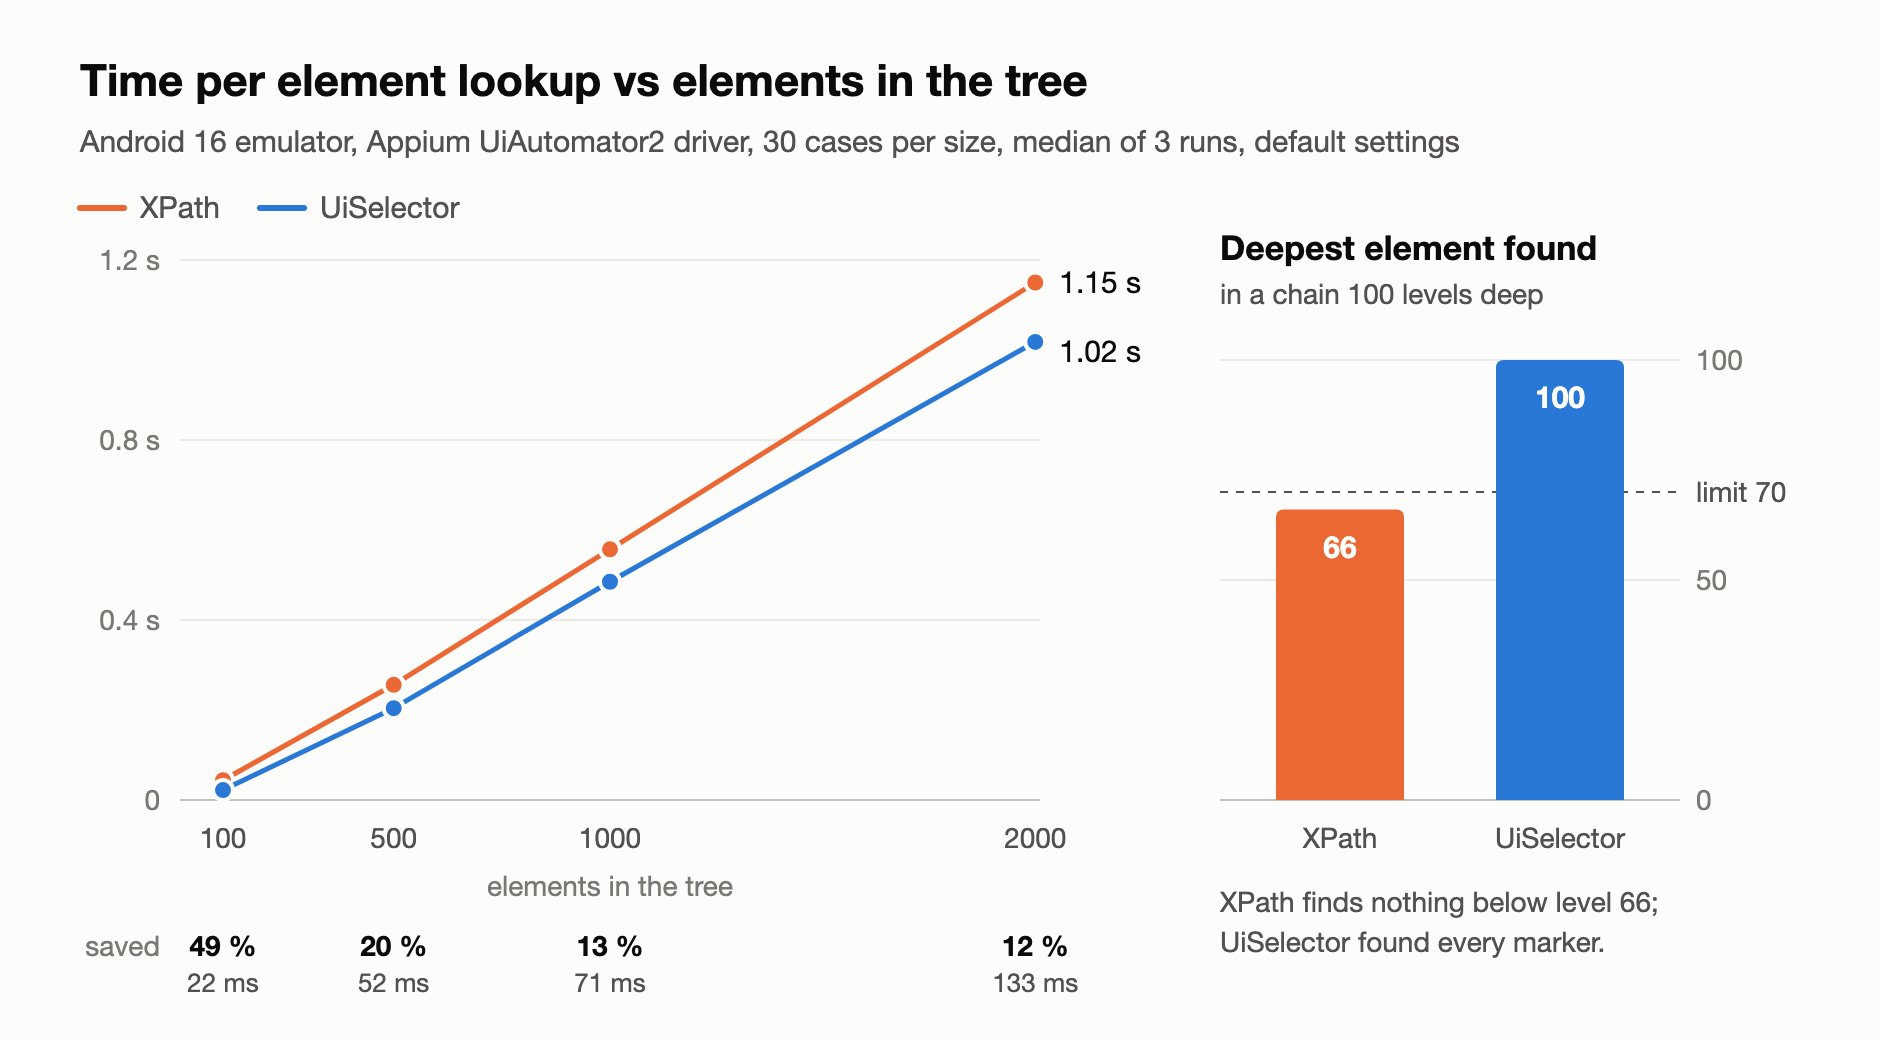
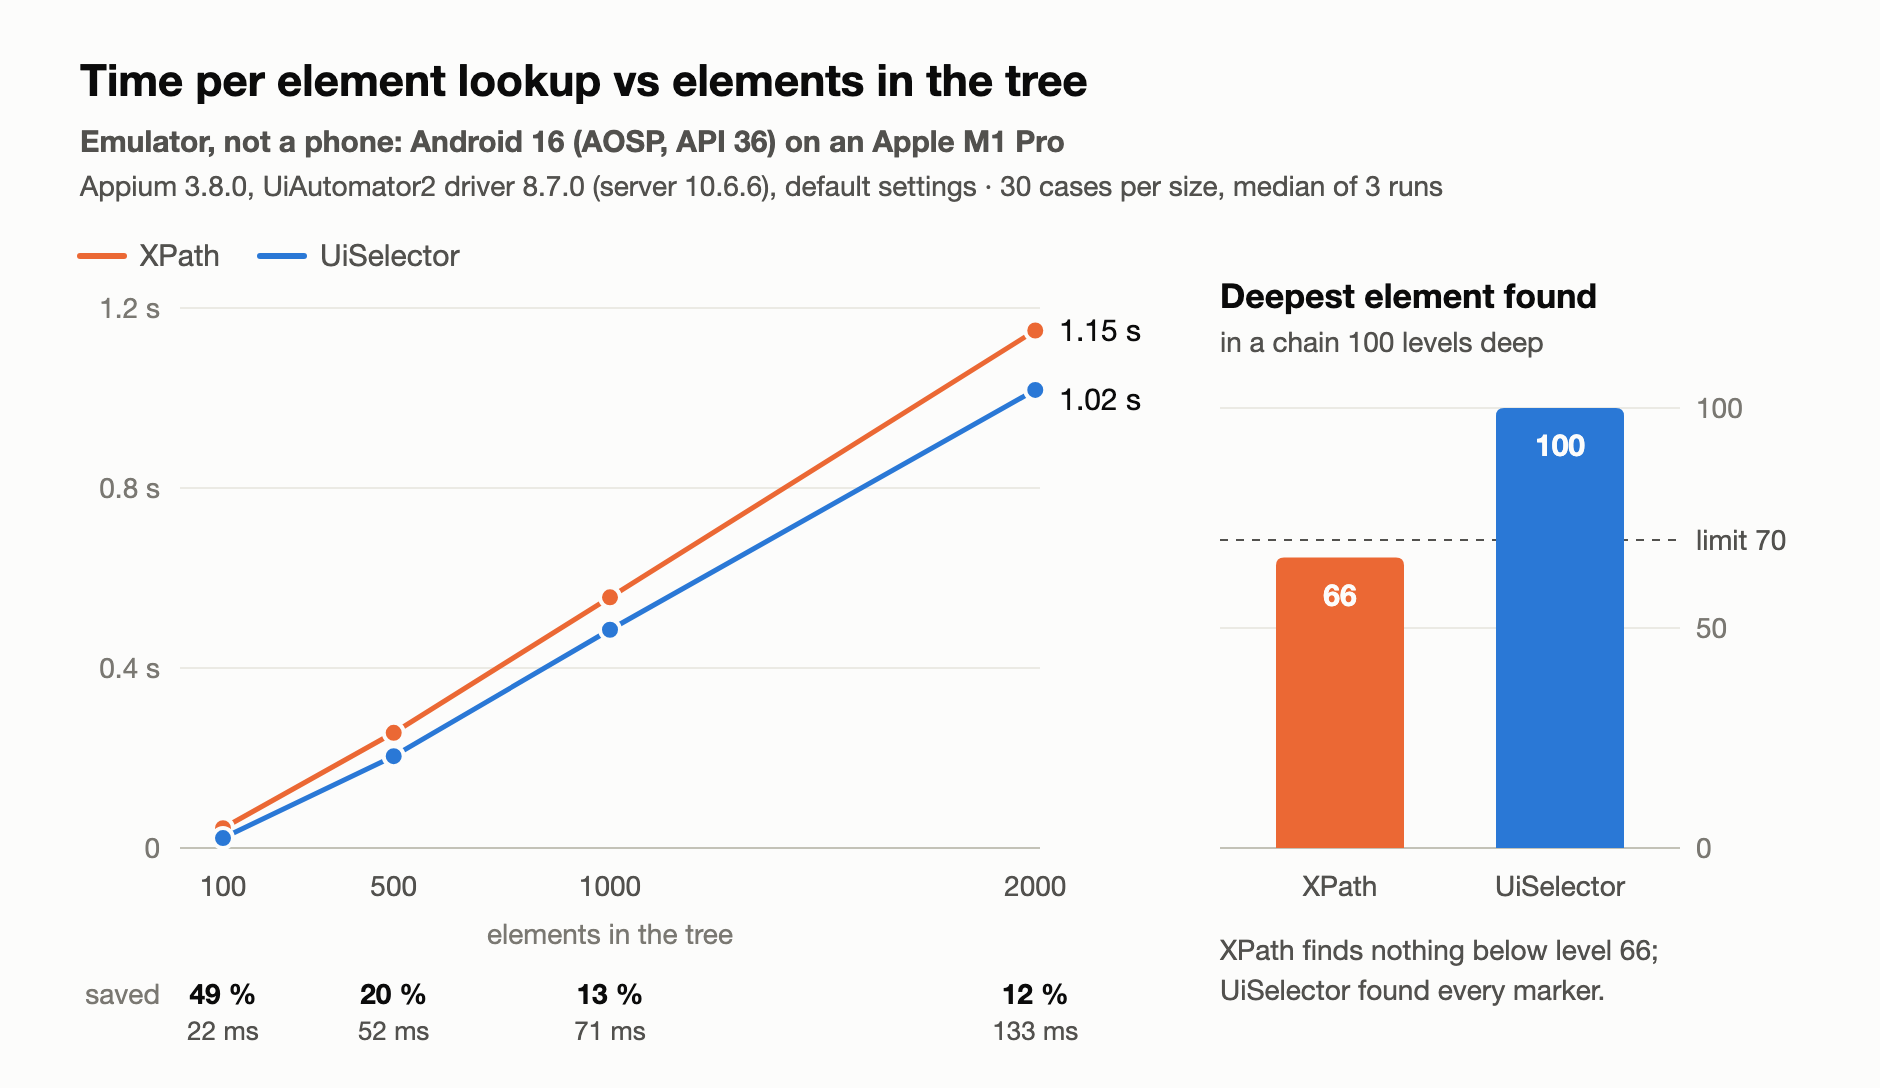
docs: speed chart states the emulator and the Appium / driver / server versions

diff --git a/docs/articles/img/charts.js b/docs/articles/img/charts.js
@@ -30,7 +30,9 @@ const write = (name, s) => fs.writeFileSync(path.join(out, name), s);
   const y = (ms) => Y0 - (ms / 1200) * (Y0 - Y1);
   let b = '';
   b += t(40, 48, 'Time per element lookup vs elements in the tree', { size: 22, weight: 600 });
-  b += t(40, 76, 'Android 16 emulator, Appium UiAutomator2 driver, 30 cases per size, median of 3 runs, default settings', { fill: C.ink2 });
+  b += t(40, 76, 'Emulator, not a phone: Android 16 (AOSP, API 36) on an Apple M1 Pro', { fill: C.ink2, weight: 600 });
+  b += t(40, 98, 'Appium 3.8.0, UiAutomator2 driver 8.7.0 (server 10.6.6), default settings · 30 cases per size, median of 3 runs', { fill: C.ink2, size: 14 });
+  b += '<g transform="translate(0,24)">';
   // legend
   b += `<line x1="40" y1="104" x2="62" y2="104" stroke="${C.xpath}" stroke-width="3" stroke-linecap="round"/>` + t(70, 109, 'XPath', { fill: C.ink2 });
   b += `<line x1="130" y1="104" x2="152" y2="104" stroke="${C.uis}" stroke-width="3" stroke-linecap="round"/>` + t(160, 109, 'UiSelector', { fill: C.ink2 });
@@ -73,7 +75,8 @@ const write = (name, s) => fs.writeFileSync(path.join(out, name), s);
   b += bar(DX + 170, 100, C.uis, 'UiSelector');
   b += t(DX, DY0 + 56, 'XPath finds nothing below level 66;', { fill: C.ink2, size: 14 });
   b += t(DX, DY0 + 76, 'UiSelector found every marker.', { fill: C.ink2, size: 14 });
-  write('speed-chart.svg', svg(940, 520, 'Time per element lookup vs elements in the tree, XPath and UiSelector', b));
+  b += '</g>';
+  write('speed-chart.svg', svg(940, 544, 'Time per element lookup vs elements in the tree, XPath and UiSelector', b));
 }
 
 // 2. Claude 5.5 runs: score (% of the converter) vs cost per run, no rules and with rules.
